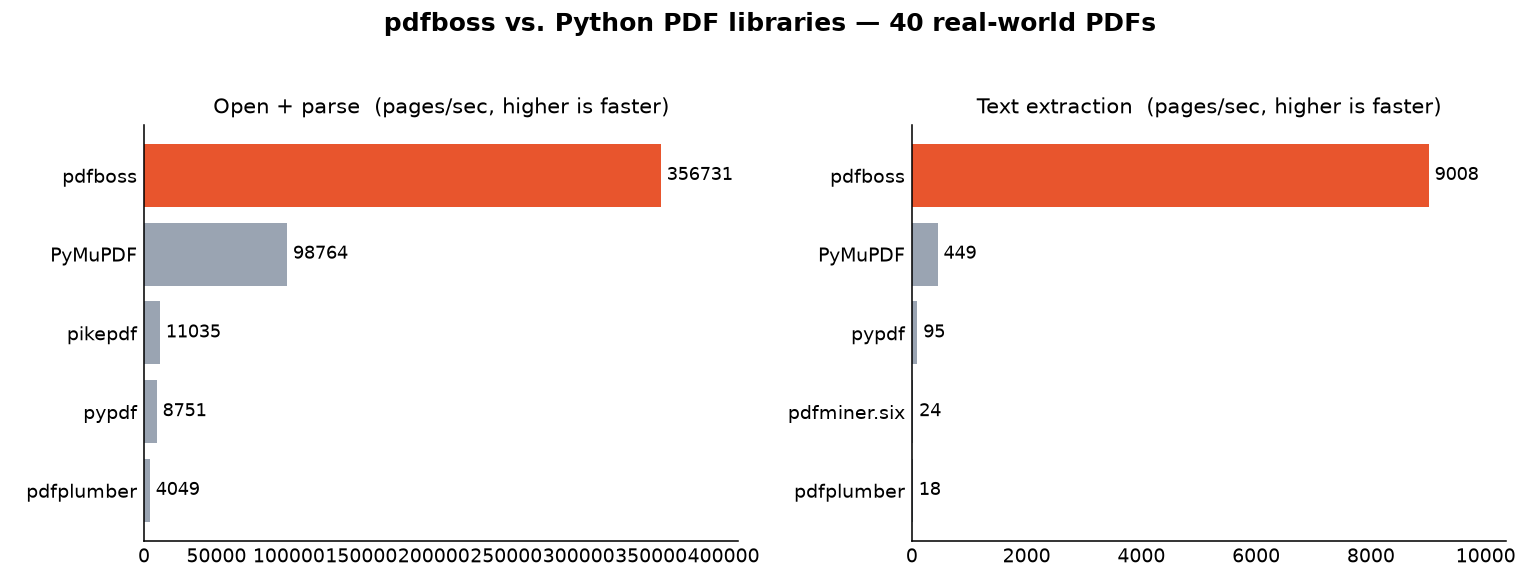
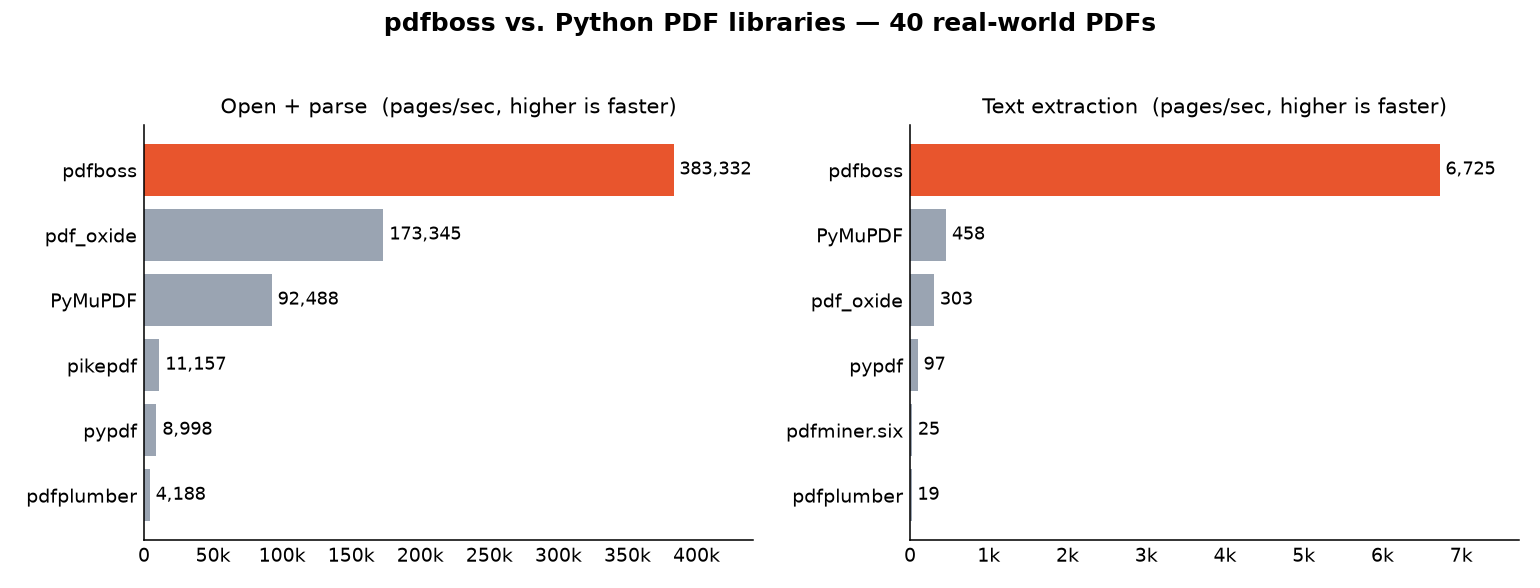
docs: re-measure the README benchmarks for 0.20.0 (#91)
* docs: re-measure the README benchmarks for 0.20.0

All four sections in one session on main plus the #93 recovery: open 383k pages/s, extraction 6,725 pages/s, markdown 0.15s over the 200-doc corpus, render 112.7 pages/s (second behind pdfium), scans 66.4 pages/s (fastest). pdf_oxide joins the open/extraction chart. NID rows carry over: extraction output is byte-identical to 0.19.1 across all 200 quality docs.

* chore(benchmarks): compare open and extraction against pdf_oxide

PdfDocument.page_count() for open, to_plain_text_all() for text (its fastest whole-document path). The chart's axis ticks gain thousands formatting.

diff --git a/benchmarks/bench.py b/benchmarks/bench.py
@@ -38,6 +38,18 @@ def pdfboss_text(path):
     return pdfboss.Document(path).extract_text()
 
 
+def pdf_oxide_open(path):
+    import pdf_oxide
+
+    return pdf_oxide.PdfDocument(path).page_count()
+
+
+def pdf_oxide_text(path):
+    import pdf_oxide
+
+    return pdf_oxide.PdfDocument(path).to_plain_text_all()
+
+
 def pypdf_open(path):
     from pypdf import PdfReader
 
@@ -101,6 +113,7 @@ def pymupdf_text(path):
 LIBS = {
     "pdfboss": {"open": pdfboss_open, "text": pdfboss_text},
     "PyMuPDF": {"open": pymupdf_open, "text": pymupdf_text},
+    "pdf_oxide": {"open": pdf_oxide_open, "text": pdf_oxide_text},
     "pypdf": {"open": pypdf_open, "text": pypdf_text},
     "pdfplumber": {"open": pdfplumber_open, "text": pdfplumber_text},
     "pdfminer.six": {"text": pdfminer_text},
@@ -205,10 +218,13 @@ def plot(results, out_png):
         colors = ["#e8552d" if n == "pdfboss" else "#9aa4b2" for n in names]
         bars = ax.barh(names, vals, color=colors)
         ax.set_title(f"{titles[op]}  (pages/sec, higher is faster)", fontsize=11)
-        ax.bar_label(bars, fmt="%.0f", padding=3, fontsize=9)
+        ax.bar_label(bars, fmt="{:,.0f}".format, padding=3, fontsize=9)
         ax.margins(x=0.15)
         ax.spines[["top", "right"]].set_visible(False)
         ax.tick_params(length=0)
+        ax.xaxis.set_major_formatter(
+            lambda v, _: f"{v / 1000:g}k" if v >= 1000 else f"{v:g}"
+        )
     n = results["operations"]["text"]["files_compared"]
     fig.suptitle(
         f"pdfboss vs. Python PDF libraries — {n} real-world PDFs",

diff --git a/README.md b/README.md
@@ -97,12 +97,12 @@ Against other Python PDF libraries over 40 real-world PDFs (pages/sec, higher is
   <img src="https://raw.githubusercontent.com/4thel00z/pdfboss/main/benchmarks/results.png" alt="pdfboss vs. Python PDF libraries" width="100%">
 </p>
 
-**pdfboss is the fastest library measured on both operations, including against the C-backed PyMuPDF**: 9,000 pages/s extracting text against PyMuPDF's 449 (about 20×), and 357,000 pages/s opening + parsing against 99,000 (about 3.6×).
+**pdfboss is the fastest library measured on both operations, including against the C-backed PyMuPDF and the Rust-backed pdf_oxide**: 6,700 pages/s extracting text against PyMuPDF's 460 (about 15×) and pdf_oxide's 300 (about 22×), and 383,000 pages/s opening + parsing against pdf_oxide's 173,000 (about 2.2×).
 
 <details>
 <summary><strong>Method and fine print</strong></summary>
 
-Best-of-3 per file, aggregated over the files every library handled. The pure-Python readers are 95× to 500× slower on extraction. Since 0.9.0, `doc.extract_text()` spreads pages across cores, which widened the gap over the sequential libraries from the 7× measured before that landed. Lazy page-tree loading means opening a document reads only its declared page count instead of parsing every page dictionary up front. Opening is close to free, so the ratio says more about what the others do eagerly than about pdfboss. Rendering is compared in its own section below, restricted to the files pdfboss provably rasterizes completely — timing it against full renderers on the rest would credit it for work it skips.
+Best-of-3 per file, aggregated over the files every library handled; measured with pdfboss 0.20.0 on an Apple M3 Pro, every table on this page from one session. The pure-Python readers are roughly 70× to 360× slower on extraction. Since 0.9.0, `doc.extract_text()` spreads pages across cores, which widened the gap over the sequential libraries from the 7× measured before that landed; since 0.19.0 every span also carries its style (font, weight, decorations, color), which costs the extraction rows a few percent against older tables. Lazy page-tree loading means opening a document reads only its declared page count instead of parsing every page dictionary up front. Opening is close to free, so the ratio says more about what the others do eagerly than about pdfboss. Rendering is compared in its own section below, restricted to the files pdfboss provably rasterizes completely — timing it against full renderers on the rest would credit it for work it skips.
 
 Numbers are machine-dependent; reproduce with [`benchmarks/bench.py`](benchmarks/README.md).
 
@@ -110,7 +110,7 @@ Numbers are machine-dependent; reproduce with [`benchmarks/bench.py`](benchmarks
 
 ### Extraction quality
 
-On [opendataloader-bench](https://github.com/opendataloader-project/opendataloader-bench) — the 200-PDF corpus PDF-to-Markdown engines use for their published comparisons — pdfboss reads the whole corpus in about a seventh of a second, over 3× faster than the fastest competing Markdown engine, with a mid-field reading-order score (**NID**, higher is better):
+On [opendataloader-bench](https://github.com/opendataloader-project/opendataloader-bench) — the 200-PDF corpus PDF-to-Markdown engines use for their published comparisons — pdfboss reads the whole corpus in about a seventh of a second, about 3× faster than the fastest competing Markdown engine, with a mid-field reading-order score (**NID**, higher is better):
 
 | Engine | Reading order (NID) | Output | Time (200 docs) |
 |---|--:|---|--:|
@@ -118,8 +118,8 @@ On [opendataloader-bench](https://github.com/opendataloader-project/opendataload
 | liteparse 2.10.1 | 0.913 | Markdown | 0.75s |
 | opendataloader 2.2.1 | 0.902 | Markdown | 2.57s |
 | pymupdf4llm 0.2.0 | 0.886 | Markdown | 17.12s |
-| **pdfboss** (`md`) | **0.877** | Markdown | **0.14s** |
-| **pdfboss** | **0.868** | plain text | **0.13s** |
+| **pdfboss** (`md`) | **0.877** | Markdown | **0.15s** |
+| **pdfboss** | **0.868** | plain text | **0.16s** |
 | markitdown 0.1.5 | 0.844 | Markdown | 16.17s |
 
 <details>
@@ -133,23 +133,23 @@ Quality rows come from the benchmark's own evaluator over all 200 documents. The
 
 ### Rendering
 
-A renderer that skips work looks fast, so every file is certified before the stopwatch starts: any page that reports dropped or approximated content excludes its file, and an ink-coverage gate across libraries catches work skipped silently. 37 of the 40 files (864 pages) certify:
+A renderer that skips work looks fast, so every file is certified before the stopwatch starts: any page that reports dropped or approximated content excludes its file, and an ink-coverage gate across libraries catches work skipped silently. 38 of the 40 files (888 pages) certify:
 
 | Library | pages/sec |
 |---|--:|
-| pypdfium2 | 125.9 |
-| pdfboss | 112.0 |
-| pdfplumber (via pdfium) | 104.5 |
-| PyMuPDF | 94.8 |
+| pypdfium2 | 122.0 |
+| pdfboss | 112.7 |
+| pdfplumber (via pdfium) | 103.9 |
+| PyMuPDF | 91.9 |
 
-pdfboss rasterizes the mixed corpus second only to pdfium itself: about 11% behind it, ahead of pdfplumber's pdfium stack and PyMuPDF, with no C in it.
+pdfboss rasterizes the mixed corpus second only to pdfium itself — about 8% behind it, ahead of pdfplumber's pdfium stack and PyMuPDF — with no C in it.
 
 <details>
 <summary><strong>Certification and stability details</strong></summary>
 
-pdfboss rasterizes each page through `render_reporting` at the `full` fonts tier — substituting non-embedded fonts, which is what the other engines do by default — and a file where any page reports dropped or approximated content is excluded, with its reason printed and counted. A second gate renders each file's first page in every library and excludes files whose ink coverage disagrees: a blank page renders instantly and means nothing. The three annotation-appearance files and the tiling-pattern file the earlier sample excluded now certify, leaving only three files whose fonts lack a glyph for a code the page draws.
+pdfboss rasterizes each page through `render_reporting` at the `full` fonts tier — substituting non-embedded fonts, which is what the other engines do by default — and a file where any page reports dropped or approximated content is excluded, with its reason printed and counted. A second gate renders each file's first page in every library and excludes files whose ink coverage disagrees: a blank page renders instantly and means nothing. Only two files fail certification now, each over a font that lacks a glyph for a code the page draws.
 
-Caching loaded shadings and patterns across paints and reworking the rasterizer's hot paths moved pdfboss up a place since the last table, with every output byte identical. Compare the rows against each other, not against another machine's numbers. Across three back-to-back passes every library repeated within 1.6%, the pdfboss-to-pdfium ratio held within 0.5%, and the ordering never moved.
+Compare the rows against each other, not against another machine's numbers.
 
 Reproduce with [`benchmarks/bench_render.py`](benchmarks/README.md).
 
@@ -161,17 +161,17 @@ Scans are the other half of the world's PDFs: one full-page bilevel image per pa
 
 | Library | pages/sec | Ink on page 1 |
 |---|--:|--:|
-| pdfboss | 88.1 | 4.83% |
-| pdfplumber (via pdfium) | 57.8 | 4.87% |
-| PyMuPDF | 54.5 | 4.82% |
-| pypdfium2 | 52.6 | 4.85% |
+| pdfboss | 66.4 | 4.71% |
+| pypdfium2 | 56.5 | 4.85% |
+| pdfplumber (via pdfium) | 56.1 | 4.87% |
+| PyMuPDF | 55.6 | 4.82% |
 
-**pdfboss is the fastest of the four here, at about 1.5× the C-backed renderers**, and the only one of them with no C in it.
+**pdfboss is the fastest of the four, about 18% ahead of the C-backed renderers**, and the only one of them with no C in it.
 
 <details>
 <summary><strong>Where the time goes, and why the ink column matters</strong></summary>
 
-All four are timed in one pass, and the ratio has landed within a few percent of 1.5× on every run (1.49× to 1.56×), while the absolute numbers varied by half as the machine warmed and cooled. Compare the four rows against each other, not against another machine's numbers.
+All four are timed in one pass. The absolute numbers vary by half as the machine warms and cools — compare the four rows against each other, not against another machine's numbers.
 
 What is left is the codec itself. Four fifths of the time goes to the JBIG2 arithmetic decoder and the context formation that feeds it. That part is a serial dependency chain: every decision needs the interval state the previous one wrote, and every pixel's context contains the pixels just decoded. It neither vectorizes nor parallelizes. The rest was arithmetic that did not need doing: expanding a packed scan into eight times its size in RGBA before sampling a fraction of it, blending opaque pixels through an alpha formula that returns them unchanged, and walking bitmaps a pixel at a time where a row of bytes would do.
 

diff --git a/benchmarks/README.md b/benchmarks/README.md
@@ -63,6 +63,7 @@ non-crash rate and a first-page ink check.
 |---|:-:|:-:|:-:|:-:|:-:|:-:|:-:|:-:|---|
 | pdfboss | ✓ | ✓ | ✓ | ✓ | ✓ | ✓ | ✓ | ✓ | this project (Rust) |
 | PyMuPDF | ✓ | ✓ | ✓ | ✓ | ✓ | ✓ | ✓ | ✓ | C-backed |
+| pdf_oxide | ✓ | ✓ | | | | | | | Rust-backed |
 | pypdf | ✓ | ✓ | | | | | | | pure Python; no rasterizer |
 | pdfplumber | ✓ | ✓ | ✓ | ✓ | ✓ | ✓ | ✓ | ✓ | text via pdfminer.six, rasterizing via pdfium |
 | pypdfium2 | | | ✓ | ✓ | ref | ✓ | ✓ | ✓ | pdfium bindings; text API used by bench_memory.py |
@@ -359,7 +360,7 @@ predefined-CMap feature work will be measured against.
 ## Running
 
 ```bash
-pip install pypdf pdfminer.six pdfplumber pikepdf pymupdf pypdfium2 pillow numpy matplotlib
+pip install pypdf pdfminer.six pdfplumber pikepdf pymupdf pypdfium2 pdf_oxide pillow numpy matplotlib
 pip install pdfboss-fonts               # substitute faces for the full fonts tier
 maturin develop --release           # build pdfboss into the venv
 python benchmarks/bench.py          /path/to/pdfs --sample 40 --repeat 3
